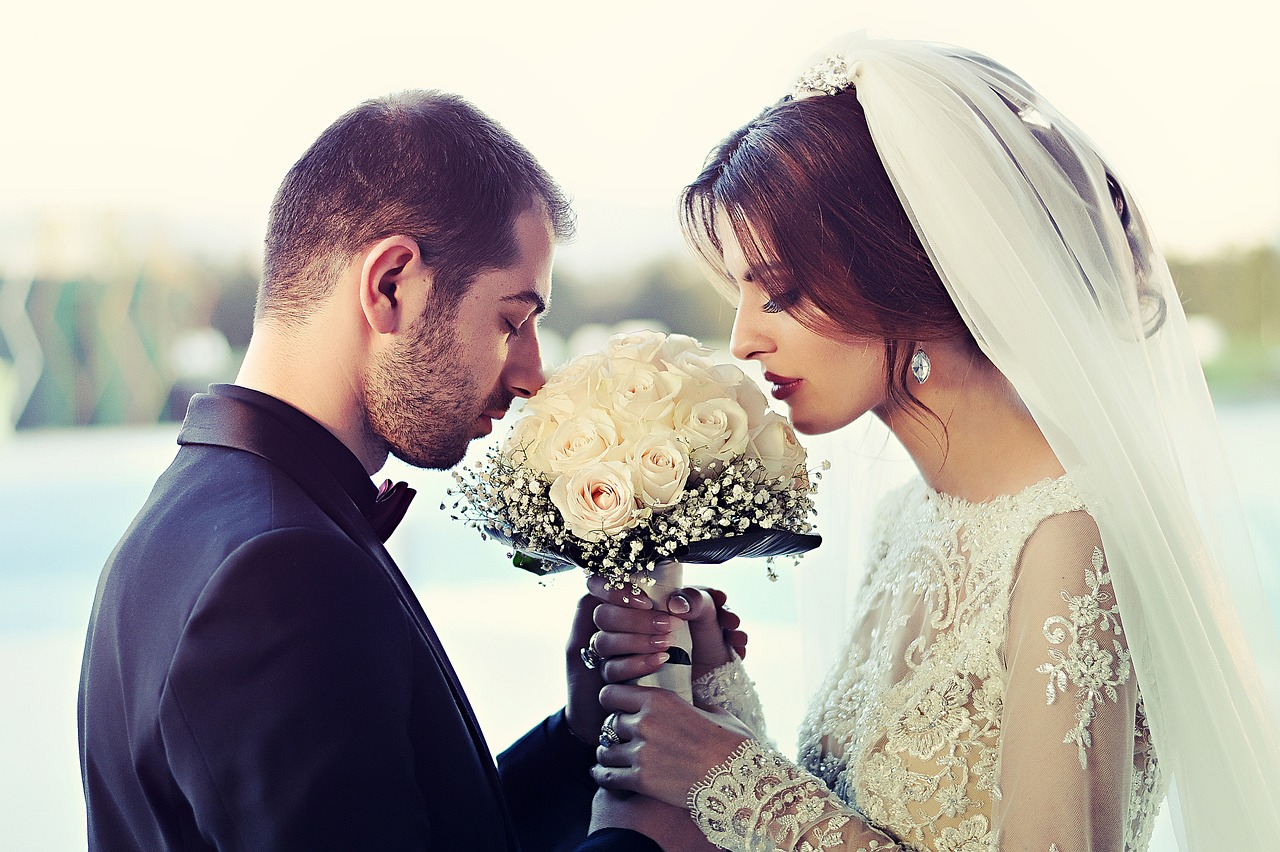
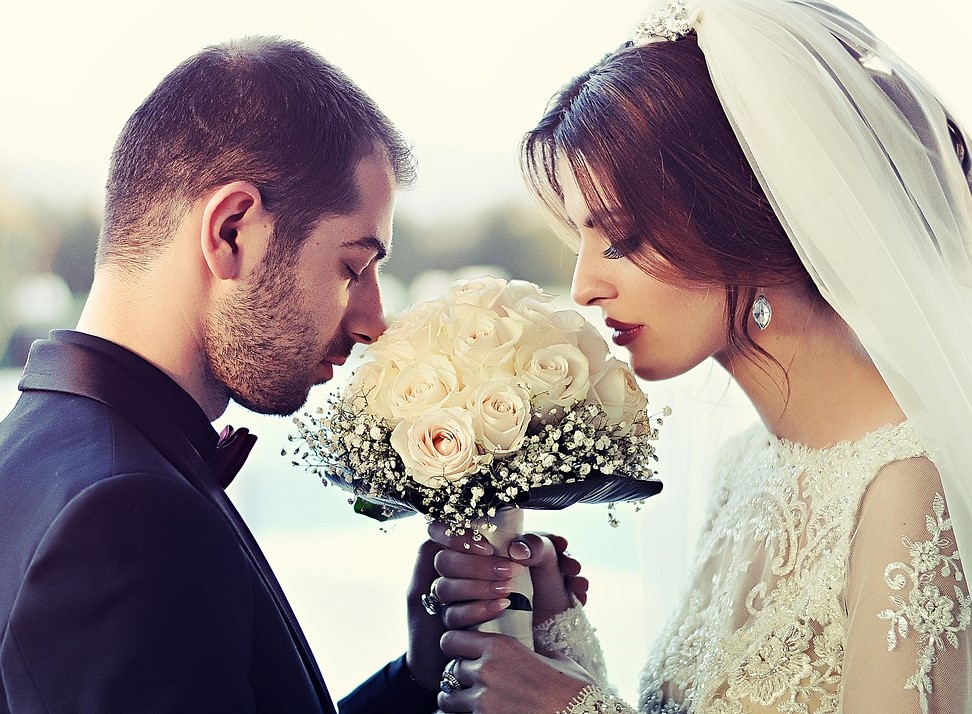
initial commit

diff --git a/css/style.css b/css/style.css
@@ -7,7 +7,7 @@
 body {
   font-size: 2rem;
   font-family: "Work Sans", sans-serif;
-  /* min-height: 4000px; */
+  min-height: 4000px;
 }
 
 .hero::before {
@@ -17,7 +17,7 @@ body {
   left: 0;
   width: 100%;
   height: 100%;
-  background-image: url(../img/bride-1255520_1280.jpg);
+  background-image: url(../img/roses-3194057_1280.jpg);
   background-repeat: no-repeat;
   z-index: -1;
   filter: brightness();
@@ -76,6 +76,7 @@ body {
 
 .mynavbar .nav-link {
   text-transform: uppercase;
+  font-size: 1rem;
 }
 .home {
   background-image: url(../img/Desain\ tanpa\ judul.png);
@@ -134,7 +135,8 @@ body {
   padding-bottom: 8rem;
 }
 .info h2,
-.story h2 {
+.story h2,
+.galery h2 {
   color: var(--pink);
   font-family: "Sacramento";
   font-size: 5rem;
@@ -147,11 +149,13 @@ body {
   font-size: 1rem;
   font-weight: 300;
 }
-.story {
+.story,
+.galery {
   padding-top: 10rem;
   padding-bottom: 8rem;
 }
-.story span {
+.story span,
+.galery span {
   text-transform: uppercase;
   color: #666;
   font-size: 0.9rem;
@@ -159,30 +163,10 @@ body {
   display: block;
   margin-bottom: 1rem;
 }
-.story p {
+.story p,
+.galery p {
   font-size: 1rem;
   font-weight: 300;
-}
-/* media query */
-
-/* extra large */
-@media (max-width: 1200px) {
-  .home .heart {
-    transform: translateX(-50%) translateY(45px);
-  }
-}
-
-/* laptop */
-@media (max-width: 992px) {
-  html {
-    font-size: 75%;
-  }
-  .simply-countdown > .simply-section {
-    padding: 70px;
-  }
-  .home .heart {
-    display: none;
-  }
 }
 
 .info .card {
@@ -203,7 +187,140 @@ body {
   font-size: 0.9rem;
   font-weight: 300;
 }
+.timeline {
+  list-style: none;
+  padding: 1.4rem 0;
+  margin-top: 1rem;
+  position: relative;
+}
+.timeline::before {
+  content: "";
+  top: 0;
+  bottom: 0;
+  position: absolute;
+  width: 1px;
+  background-color: #ccc;
+  left: 50%;
+}
+.timeline li {
+  margin-bottom: 1.5rem;
+  position: relative;
+}
+.timeline li::before,
+.timeline li::after {
+  content: "";
+  display: table;
+}
+.timeline li::after {
+  clear: both;
+}
 
+.timeline li .timeline-img {
+  width: 160px;
+  height: 160px;
+  background-color: #ccc;
+  position: absolute;
+  left: 50%;
+  border-radius: 50%;
+  transform: translateX(-50%);
+  background-size: cover;
+  background-position: center;
+  background-repeat: no-repeat;
+}
+.timeline li .timeline-panel {
+  width: 40%;
+  float: left;
+  border: 1px solid #ccc;
+  padding: 2rem;
+  position: relative;
+  border-radius: 5px;
+  background-color: #fff;
+}
+.timeline li .timeline-panel::before {
+  content: "";
+  display: inline-block;
+  position: absolute;
+  border-top: 15px solid transparent;
+  border-left: 15px solid #ccc;
+  border-right: 0 solid #ccc;
+  border-bottom: 15px solid transparent;
+  top: 80px;
+  right: -15px;
+}
+.timeline li .timeline-panel::after {
+  content: "";
+  position: absolute;
+  display: inline-block;
+  border-top: 14px solid transparent;
+  border-left: 14px solid #fff;
+  border-right: 0 solid #fff;
+  border-bottom: 14px solid transparent;
+  top: 81px;
+  right: -13px;
+}
+.timeline li.timeline-inverted .timeline-panel {
+  float: right;
+}
+.timeline li.timeline-inverted .timeline-panel::before {
+  border-left-width: 0;
+  border-right-width: 15px;
+  left: -15px;
+  right: auto;
+}
+.timeline li.timeline-inverted .timeline-panel::after {
+  border-left-width: 0;
+  border-right-width: 14px;
+  left: -13px;
+  right: auto;
+}
+.galery {
+  background-color: #ffd4e6;
+}
+
+/* media query */
+/* extra large */
+@media (max-width: 1200px) {
+  .home .heart {
+    transform: translateX(-50%) translateY(45px);
+  }
+}
+
+/* laptop */
+@media (max-width: 992px) {
+  html {
+    font-size: 75%;
+  }
+  .simply-countdown > .simply-section {
+    padding: 70px;
+  }
+  .home .heart {
+    display: none;
+  }
+  .timeline::after {
+    left: 65px;
+  }
+  .timeline li .timeline-img {
+    left: 15px;
+    margin-left: 45px;
+    top: 16px;
+  }
+  .timeline li .timeline-panel {
+    width: calc((100% - 200px));
+    float: right;
+  }
+  .timeline li .timeline-panel::before {
+    border-left-width: 0;
+    border-right-width: 15px;
+    left: -15px;
+    right: auto;
+  }
+  .timeline li .timeline-panel::after {
+    border-left-width: 0;
+    border-right-width: 14px;
+    left: -13px;
+    right: auto;
+  }
+}
 /* tablet */
 @media (max-width: 768px) {
   html {
@@ -220,6 +337,10 @@ body {
   .sticky-top {
     overflow: hidden;
   }
+  .timeline li .timeline-img {
+    width: 140px;
+    height: 140px;
+  }
 }
 
 /* mobile phone */
@@ -230,5 +351,19 @@ body {
   .simply-countdown > .simply-section {
     padding: 44px;
     margin: 3px;
+  }
+  .timeline li .timeline-img {
+    width: 80px;
+    height: 80px;
+  }
+  .timeline li .timeline-panel {
+    width: 60%;
+    transform: translateX(-20px);
+  }
+  .timeline li .timeline-panel::before {
+    top: 30px;
+  }
+  .timeline li .timeline-panel::after {
+    top: 31px;
   }
 }

diff --git a/index.html b/index.html
@@ -246,6 +246,132 @@
             </p>
           </div>
         </div>
+        <div class="row">
+          <div class="col">
+            <ul class="timeline">
+              <li>
+                <div
+                  class="timeline-img"
+                  style="background-image: url(img/smaya.jpg)"
+                ></div>
+                <div class="timeline-panel">
+                  <div class="timeline-heading">
+                    <h3>Pertama Bertemu</h3>
+                    <span>1 januari 2022</span>
+                  </div>
+                  <div class="timeline-body">
+                    <p>
+                      Lorem ipsum dolor sit, amet consectetur adipisicing elit.
+                      Impedit quis deserunt voluptatem quibusdam eius ad!
+                    </p>
+                  </div>
+                </div>
+              </li>
+              <li class="timeline-inverted">
+                <div
+                  class="timeline-img"
+                  style="background-image: url(https://picsum.photos/200/300)"
+                ></div>
+                <div class="timeline-panel">
+                  <div class="timeline-heading">
+                    <h3>Mulai Serius</h3>
+                    <span>1 januari 2023</span>
+                  </div>
+                  <div class="timeline-body">
+                    <p>
+                      Lorem ipsum dolor sit amet consectetur adipisicing elit.
+                      Soluta blanditiis, rem quod eius tempore tempora
+                      architecto aliquid reprehenderit!
+                    </p>
+                  </div>
+                </div>
+              </li>
+              <li class="">
+                <div
+                  class="timeline-img"
+                  style="background-image: url(https://picsum.photos/201/301)"
+                ></div>
+                <div class="timeline-panel">
+                  <div class="timeline-heading">
+                    <h3>Tunangan</h3>
+                    <span>5 juni 2023</span>
+                  </div>
+                  <div class="timeline-body">
+                    <p>
+                      Lorem ipsum dolor sit, amet consectetur adipisicing elit.
+                      Similique illo nam beatae quo ab odit dolores inventore
+                      quis asperiores. Magnam!
+                    </p>
+                  </div>
+                </div>
+              </li>
+              <li class="timeline-inverted">
+                <div
+                  class="timeline-img"
+                  style="background-image: url(https://picsum.photos/202/302)"
+                ></div>
+                <div class="timeline-panel">
+                  <div class="timeline-heading">
+                    <h3>Menikah</h3>
+                    <span>20 Novemer 2023</span>
+                  </div>
+                  <div class="timeline-body">
+                    <p>
+                      Lorem ipsum dolor sit, amet consectetur adipisicing elit.
+                      Similique illo nam beatae quo ab odit dolores inventore
+                      quis asperiores. Magnam!
+                    </p>
+                  </div>
+                </div>
+              </li>
+            </ul>
+          </div>
+        </div>
+      </div>
+    </section>
+    <!-- end -->
+    <!-- galery -->
+    <section id="galery" class="galery">
+      <div class="container">
+        <div class="row justify-content-center">
+          <div class="col-md-8 col-10 text-center">
+            <span>Memori Kisah kami</span>
+            <h2>Galeri Foto</h2>
+            <p>
+              Lorem ipsum dolor sit amet consectetur adipisicing elit.
+              Obcaecati, aliquid.
+            </p>
+          </div>
+        </div>
+        <div class="row row-col-md-3 row-col-sm-2 row-col-1">
+          <div class="col mt-3">
+            <a href="img/thumbnail/bride-1255520_1280 (1).jpg">
+              <img
+                src="img/thumbnail/bride-1255520_1280 (1).jpg"
+                alt=""
+                class="img-fluid w-100 rounded"
+              />
+            </a>
+          </div>
+          <div class="col mt-3">
+            <a href="img/thumbnail/bride-1255520_1280 (1).jpg">
+              <img
+                src="img/thumbnail/bride-1255520_1280 (1).jpg"
+                alt=""
+                class="img-fluid w-100 rounded"
+              />
+            </a>
+          </div>
+          <div class="col mt-3">
+            <a href="img/thumbnail/bride-1255520_1280 (1).jpg">
+              <img
+                src="img/thumbnail/bride-1255520_1280 (1).jpg"
+                alt=""
+                class="img-fluid w-100 rounded"
+              />
+            </a>
+          </div>
+        </div>
       </div>
     </section>
     <!-- end -->
